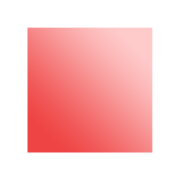
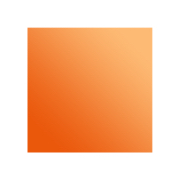
refactor: rebrand app

diff --git a/src/components/Intro.tsx b/src/components/Intro.tsx
@@ -30,7 +30,7 @@ export default function Intro() {
       <div className="mx-auto max-w-7xl px-10">
         <div className="text-center">
           <p className="mt-2 text-3xl font-medium leading-8 sm:text-5xl">
-            Say 👋 to <span className="font-black">Jurnal.</span>
+            Say 👋 to <span className="font-black">Clementine.</span>
           </p>
           <p className="mx-auto mt-4 max-w-2xl text-xl text-neutral-500 dark:text-neutral-300">
             A place to save your thoughts and ideas
@@ -42,7 +42,7 @@ export default function Intro() {
             {features.map((feature) => (
               <div key={feature.name} className="relative">
                 <dt>
-                  <div className="absolute flex h-12 w-12 items-center justify-center rounded-md bg-red-100 text-red-800 dark:bg-red-400">
+                  <div className="absolute flex h-12 w-12 items-center justify-center rounded-md bg-orange-200/70 text-orange-600 dark:bg-orange-400 dark:text-orange-700">
                     <feature.icon className="h-6 w-6" aria-hidden="true" />
                   </div>
                   <p className="ml-16 text-lg font-black leading-6">
@@ -63,7 +63,7 @@ export default function Intro() {
               <Link to="/signin">
                 <button
                   type="button"
-                  className="mb-2 flex animate-bounce items-center justify-center rounded bg-red-500 px-8 py-3 pb-3 font-bold leading-tight text-white transition duration-150 ease-in-out hover:bg-red-600 focus:outline-none focus:ring-0 dark:bg-red-700"
+                  className="mb-2 flex animate-bounce items-center justify-center rounded bg-orange-500 px-8 py-3 pb-3 font-bold leading-tight text-white transition duration-150 ease-in-out hover:bg-orange-600 focus:outline-none focus:ring-0 dark:bg-orange-700"
                 >
                   Get started &rarr;
                 </button>
@@ -73,9 +73,9 @@ export default function Intro() {
             <Link to="/home">
               <button
                 type="button"
-                className="mb-2 flex animate-bounce items-center justify-center rounded bg-red-500 px-8 py-3 pb-3 font-bold leading-tight text-white transition duration-150 ease-in-out hover:bg-red-600 focus:outline-none focus:ring-0 dark:bg-red-700"
+                className="mb-2 flex animate-bounce items-center justify-center rounded bg-orange-500 px-8 py-3 pb-3 font-bold leading-tight text-white transition duration-150 ease-in-out hover:bg-orange-600 focus:outline-none focus:ring-0 dark:bg-orange-700"
               >
-                Go to your Jurnal &rarr;
+                Go home &rarr;
               </button>
             </Link>
           )}

diff --git a/src/components/Auth.js b/src/components/Auth.js
@@ -44,7 +44,7 @@ export default function Auth() {
           </p>
         </div>
         <div className="flex justify-center">
-          <div className="mt-12 rounded-lg border border-red-100 bg-red-50 p-4 duration-300 hover:shadow-lg md:w-3/4 dark:border-neutral-700 dark:bg-neutral-800">
+          <div className="mt-12 rounded-lg border border-orange-100 bg-orange-50 p-4 duration-300 hover:shadow-lg md:w-3/4 dark:border-neutral-700 dark:bg-neutral-800">
             <form className="relative my-1" action="#">
               <input
                 id="email"
@@ -59,7 +59,7 @@ export default function Auth() {
                 onChange={(e) => setEmail(e.target.value)}
               />
               <button
-                className="absolute right-1 top-1 flex h-10 w-24 items-center justify-center rounded-md bg-red-500 px-4 font-sans font-medium text-white transition duration-150 ease-in-out hover:bg-red-600 dark:bg-red-700 dark:text-neutral-200"
+                className="absolute right-1 top-1 flex h-10 w-24 items-center justify-center rounded-md bg-orange-500 px-4 font-sans font-medium text-white transition duration-150 ease-in-out hover:bg-orange-600 dark:bg-orange-700 dark:text-neutral-200"
                 type="submit"
                 onClick={(e) => {
                   e.preventDefault();
@@ -75,7 +75,7 @@ export default function Auth() {
                 <div
                   className={`text-center text-sm font-bold ${
                     helperText.error
-                      ? ' text-red-600 dark:text-red-500'
+                      ? ' text-orange-600 dark:text-orange-500'
                       : ' text-sky-600 dark:text-sky-500'
                   }`}
                 >

diff --git a/src/components/LearnMore.tsx b/src/components/LearnMore.tsx
@@ -4,11 +4,11 @@ export default function LearnMore() {
       <div className="mx-auto max-w-7xl px-10">
         <div className="text-center">
           <p className="mt-2 text-3xl font-medium leading-8 tracking-tight sm:text-5xl">
-            What is <span className="font-black">Jurnal?</span>
+            What is <span className="font-black">Clementine?</span>
           </p>
           <p className="mx-auto mt-4 max-w-2xl text-xl text-neutral-500 dark:text-neutral-300">
             A place to save your thoughts and ideas. Add notes, tasks, or
-            bookmarks to your personal Jurnal.
+            bookmarks throughout the day.
           </p>
           <p className="mt-20 text-3xl font-medium leading-8 tracking-tight sm:text-5xl">
             What's the stack?

diff --git a/public/index.html b/public/index.html
@@ -3,8 +3,8 @@
   <head>
     <meta charset="utf-8" />
     <meta name="viewport" content="width=device-width, initial-scale=1" />
-    <title>Jurnal</title>
-    <meta name="description" content="Say hi to your Jurnal" />
+    <title>Clementine</title>
+    <meta name="description" content="Say hi to Clementine" />
     <link rel="short icon" href="%PUBLIC_URL%/favicon.ico" />
     <link rel="apple-touch-icon" href="%PUBLIC_URL%/apple-touch-icon.png" />
   </head>

diff --git a/README.md b/README.md
@@ -1,1 +1,1 @@
-# Jurnal
+# Clementine
